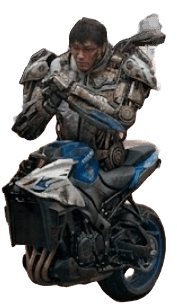
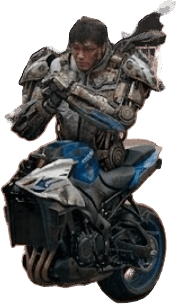
메카모드 팔다리 반투명/구멍 수정, 신지드모드 전용 포즈 세트 추가, 보험사기 구멍 버그 수정
- 김구라 메카모드 전 동작 사진의 팔다리가 반투명하게 흐려지던 문제를 불투명 처리로 수정
- 양주완 궁극기(신지드-모드)에도 김구라처럼 전용 포즈 세트(잽/스트레이트/로우킥/하이킥/막기/점프/앉기) 추가
  (오라형 궁극기도 변신형과 동일하게 전용 이미지로 교체되도록 렌더링 로직 일반화)
- 보험사기 스킬 사진에 있던 사각형 구멍(원본 배경 제거 과정에서 생긴 결손)을 모폴로지 보정으로 메움

diff --git a/js/main.js b/js/main.js
@@ -1,7 +1,7 @@
 // ===== 친구 파이터 게임 엔진 =====
 
 // 이미지 캐릭터 이미지 수정 후에도 브라우저 캐시 때문에 옛날 파일이 계속 보이는 문제 방지
-const ASSET_VERSION = 4;
+const ASSET_VERSION = 6;
 
 const STAGE_W = 960;
 const STAGE_H = 540;
@@ -1212,7 +1212,8 @@ function isUsable(img) { return !!(img && img.complete && img.naturalWidth); }
 // 궁극기(변신) 지속 중에는 ultimateForm을 우선 사용, 없으면 idle로 대체.
 // 그 외에는 상태별 실제 자세 사진(poseSprites)을, 없으면 기본 스프라이트를 사용한다.
 function resolveFighterSprite(f) {
-  if (f.transformTimer > 0 && f.data.ultimateForm) {
+  // 변신형(transform)이든 오라형(aura) 궁극기든, 지속 중이면 전용 이미지 세트로 교체
+  if ((f.transformTimer > 0 || f.auraTimer > 0) && f.data.ultimateForm) {
     const entry = f.data.ultimateForm[f.state] || f.data.ultimateForm.idle;
     if (isUsable(entry && entry.img)) return entry;
   }

diff --git a/js/characters.js b/js/characters.js
@@ -40,6 +40,16 @@ const CHARACTERS = [
       special3: { src: 'assets/characters/yang2_special3_full.png', dir: 1 },
       ultimate: { src: 'assets/characters/yang2_ultimate_full.png', dir: 1 }
     },
+    // 신지드-모드(황산 분사) 지속 중에는 이 이미지들로 전부 교체된다. 없는 상태는 idle로 대체.
+    ultimateForm: {
+      punch1: { src: 'assets/characters/yang_ult_punch1.png', dir: 1 },
+      punch2: { src: 'assets/characters/yang_ult_punch2.png', dir: 1 },
+      kick1: { src: 'assets/characters/yang_ult_kick1.png', dir: -1 },
+      kick2: { src: 'assets/characters/yang_ult_kick2.png', dir: 1 },
+      block: { src: 'assets/characters/yang_ult_block.png', dir: 1 },
+      jump: { src: 'assets/characters/yang_ult_jump.png', dir: 1 },
+      crouch: { src: 'assets/characters/yang_ult_crouch.png', dir: 1 }
+    },
     hp: 100,
     moves: {
       punch1: { name: '잽', damage: 2, range: 150, startup: 5, active: 4, recovery: 9 },

diff --git a/index.html b/index.html
@@ -96,7 +96,7 @@
   </div>
 </div>
 
-<script src="js/characters.js?v=29"></script>
-<script src="js/main.js?v=29"></script>
+<script src="js/characters.js?v=32"></script>
+<script src="js/main.js?v=32"></script>
 </body>
 </html>
